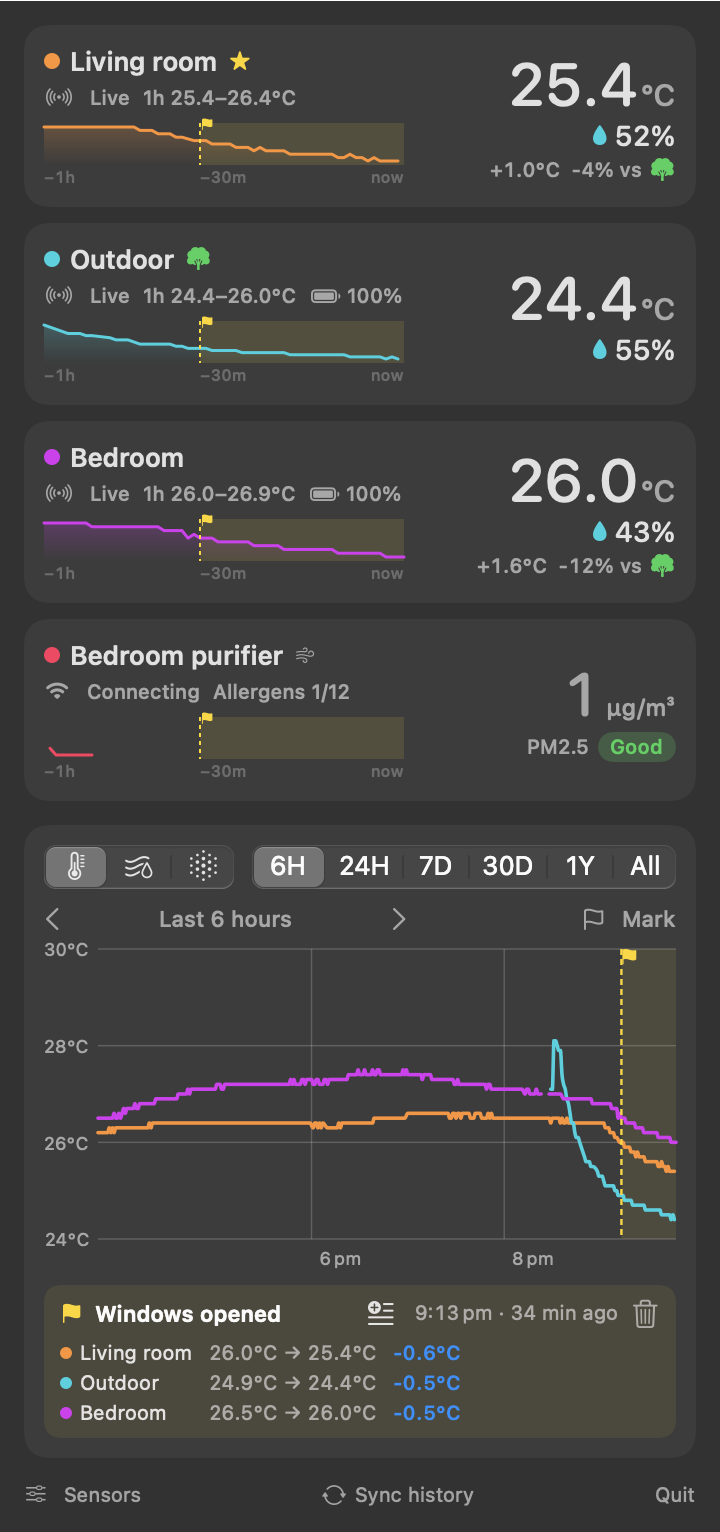
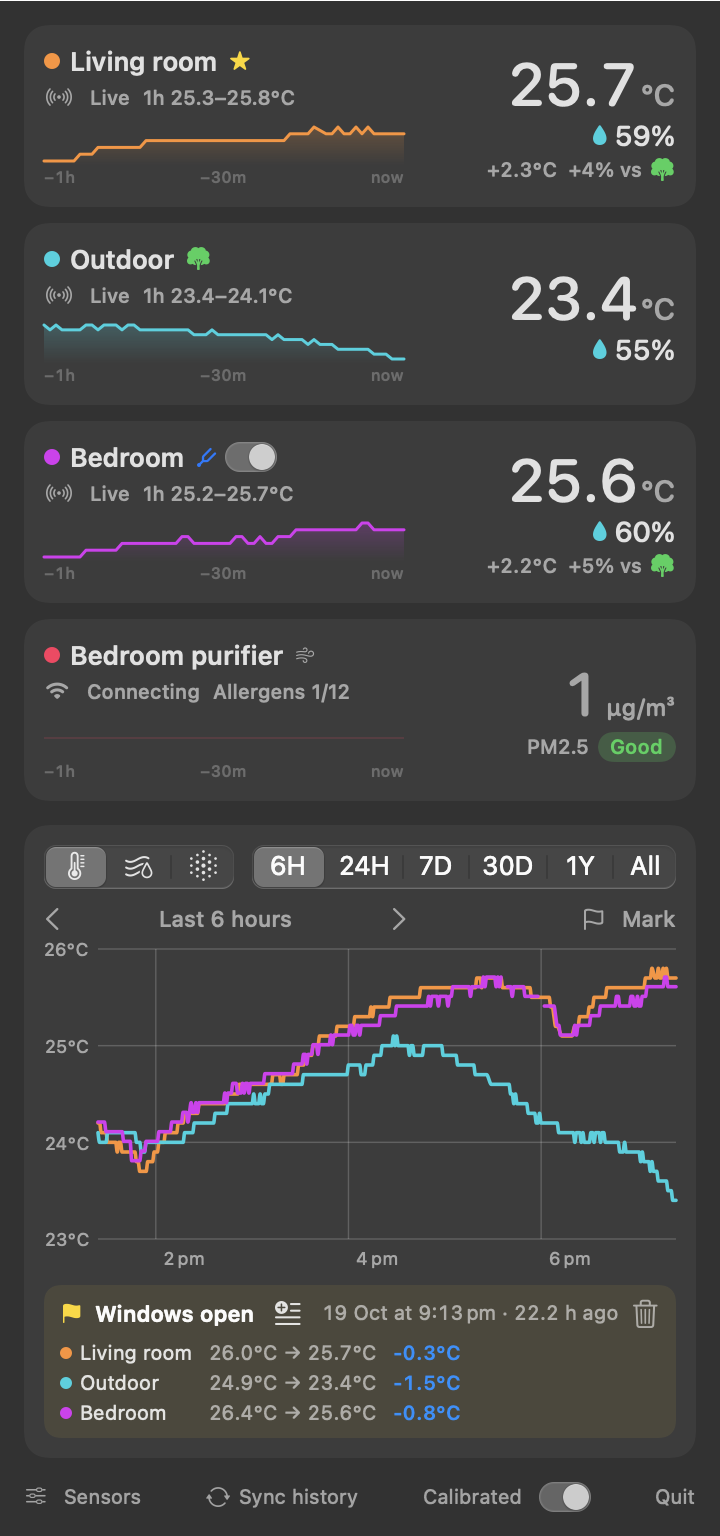
docs: README screenshots for 0.5.0 including the Calibration window; clearer difference-chart axis labels

diff --git a/Sources/SensorTray/CalibrationView.swift b/Sources/SensorTray/CalibrationView.swift
@@ -217,7 +217,7 @@ struct CalibrationView: View {
                     AxisGridLine().foregroundStyle(Color.primary.opacity(0.15))
                     AxisValueLabel {
                         if let v = value.as(Double.self) {
-                            Text(SensorCard.signed(v, decimals: isTemp ? 1 : 0) + (isTemp ? "°C" : "%")).font(.system(size: 9))
+                            Text(Self.axisLabel(v, unit: isTemp ? "°C" : "%")).font(.system(size: 9))
                         }
                     }
                 }
@@ -264,6 +264,16 @@ struct CalibrationView: View {
     }
 
     // MARK: Helpers
+
+    /// Enough decimals that neighbouring ticks never print the same
+    /// (small differences put ticks at 0.05 or 0.02 steps).
+    static func axisLabel(_ v: Double, unit: String) -> String {
+        let decimals = (0...2).first { d in
+            let scale = pow(10, Double(d))
+            return abs(v * scale - (v * scale).rounded()) < 0.001
+        } ?? 2
+        return SensorCard.signed(v, decimals: decimals) + unit
+    }
 
     private func name(_ id: UUID?) -> String {
         id.flatMap { id in model.sensors.first { $0.id == id }?.name } ?? "?"

diff --git a/README.md b/README.md
@@ -3,7 +3,7 @@
 A native macOS menu bar app for Bluetooth thermo-hygrometers and Wi-Fi air purifiers. It shows the temperature and humidity of your main sensor in the menu bar (and, if you have one outside, the outdoor sensor next to it), and a click opens every sensor with a chart of its history. It replaces juggling the Govee and ThermoPro phone apps.
 
 <p align="center">
-  <img src="docs/screenshot-dark.png" alt="Sensor Tray popover: cards for Living room, Outdoor, Bedroom and an air purifier, each with a one-hour sparkline marked where the windows were opened, above a six-hour temperature chart with the marker and a strip showing each room cooling since then" width="360">
+  <img src="docs/screenshot-dark.png" alt="Sensor Tray popover: cards for Living room, Outdoor, a calibrated Bedroom (with its calibration switch) and an air purifier, each with a one-hour sparkline and an indoor-versus-outdoor comparison, above a six-hour temperature chart where the calibrated Bedroom line tracks Living room, a marker strip, and the Calibrated switch in the footer" width="360">
 </p>
 
 ## Supported sensors
@@ -40,7 +40,11 @@ For each corrected sensor, against the reference you pick:
 4. **Pool sessions**: several sessions (say, a cool day and a warm day) are fitted together, so the correction can change with temperature. Beyond the calibrated range it holds at its edge value instead of extrapolating.
 5. **Chains** work: if A matches B and B matches C, A is fitted to B's corrected readings. Cycles can't be created.
 
-The window reports how much of a difference is left after correcting (RMS). For example, a TP357S against an H5075 over one day came out at −0.10 °C and +7.2 %RH, with ±0.08 °C and ±0.6 % left.
+The window reports how much of a difference is left after correcting (RMS). For example, a ThermoPro TP357S side by side with a Govee H5075 for a day came out at −0.09 °C for temperature. For humidity it needed +7.9 % at 45 %RH, easing to +6.6 % at 55 %RH, with ±0.08 °C and ±0.6 % left. The humidity readings spanned more than 10 %, so that correction varies with the reading.
+
+<p align="center">
+  <img src="docs/calibration.png" alt="Calibration window: Bedroom calibrated to match Living room (temperature −0.09 °C, humidity +7.9 % at 45 % to +6.6 % at 55 %) from a session on 20 Oct, 8:45 am to 7:15 pm, above the form for adding a side-by-side session with a live preview of the fit and a chart of the measured difference against the applied correction" width="520">
+</p>
 
 ## Storage & performance
 
@@ -56,7 +60,7 @@ The window reports how much of a difference is left after correcting (RMS). For 
 </p>
 
 <p align="center">
-  <img src="docs/sensors.png" alt="Sensors window listing configured sensors with outdoor, star, reorder, export and remove controls, a Nearby section, Card charts and Menu bar layout pickers, and a Launch at login toggle" width="480">
+  <img src="docs/sensors.png" alt="Sensors window listing configured sensors with outdoor, star, reorder, export and remove controls, a Nearby section, Card charts, Calibration and Menu bar settings, and a Launch at login toggle" width="480">
 </p>
 
 ## Download & install
